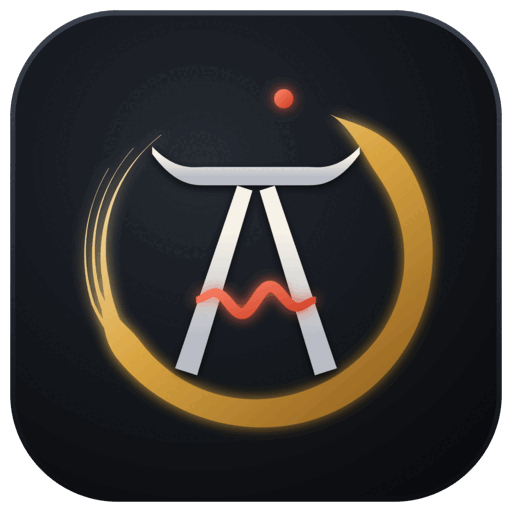
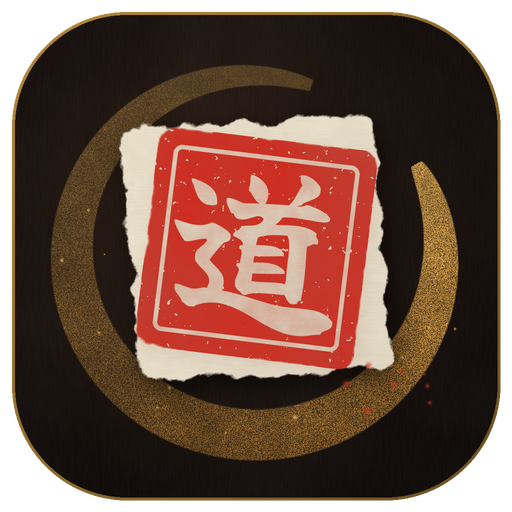
Axell Signature Dojo v3.0.1

diff --git a/docs/DESIGN.md b/docs/DESIGN.md
@@ -29,3 +29,4 @@
 | D25 | 3.0: the tracking chain keeps De-Reverb, in its new LIVE mode (a causal network as a zero-latency filter); an older De-Reverb is left out as before. The "Tracking (Live)" template starts with it too | axell-dereverb D17: LIVE removes 3.7 dB of room (STUDIO 5.7) on 48 held-out examples with ViSQOL 4.00 (input 3.96) and no more voice damage than STUDIO, at 0 ms - the artist hears the voice without the room while recording, at the same ~3.4 ms of chain latency. |
 | D26 | 3.0: the profile chains pick up the cluster's 3.0 work through the plugins themselves - Duo Compressor's VOICE HOLD (on for new instances: the pauses are no longer lifted by the compression, +23.4 -> +5.9 dB on the artist's take), Gate 3.0's two networks, Master's VOICE HOLD in its vocal presets, Penta EQ's ESS detector source - so the Dojo's tuning measures what the artist will hear | Nothing to configure in the Dojo; the tuning renders through the installed plugins (D17), so a profile made with the 3.0 plugins is tuned on their behaviour. |
 | D27 | 3.0: the Axell's Dojo brand title in the sidebar: "Axell's" in gold over "Dojo" in the brush face (Yuji Syuku, SIL OFL 1.1, via axell-core BrandTitle) with the Dojo's seal 道 ("the way") | The same title, emblem and seal language as every plugin's header. |
+| D28 | 3.0.1: the app icon is the Dojo's own seal - 道 carved white in a vermilion hanko seal (Yuji Syuku, worn stamp edges, ink pooling, tiny voids), stamped at -7 degrees on torn washi laid at +4 degrees, inside the brand's dry-brush gold ensō on black lacquer with a gold rim (generator: axell-brand/dojo_seal_icon.py); shipped in 8 sizes | The seal is the Dojo's mark in the sidebar and the brand's language (every plugin carries its own seal); it stays legible down to 32 px (a red stamp with 道), where the earlier emblem icon became a gold ring. Installing every size stops a desktop showing a cached older small icon. |

diff --git a/README.md b/README.md
@@ -43,7 +43,7 @@ every file the Dojo touches inside `<dir>`.
 
 ## Install
 
-Download `AxellSignatureDojo-3.0.0-linux-x86_64.tar.gz` from the
+Download `AxellSignatureDojo-3.0.1-linux-x86_64.tar.gz` from the
 [latest release](https://github.com/zmardanian/axell-signature-dojo/releases/latest) (optional: `sha256sum -c
 SHA256SUMS.txt`), extract it and run `./install.sh`; open "Axell Signature Dojo" from your app menu. Linux x86_64,
 glibc 2.39+. From there the Plugins page installs the suite (from GitHub or a folder, e.g. a USB stick).
@@ -57,6 +57,7 @@ glibc 2.39+. From there the Plugins page installs the suite (from GitHub or a fo
 | **2.0.1** | Small noisy rooms get De-Reverb Clean (95 %); Batch Render on the terminal | 95-100 % measured best on home recordings (DESIGN D21) |
 | **2.1.0** | The Voice Profile listens with Velvet 3.0's detector (111 voices); Velvet's AMOUNT tuned on your take to where natural speech has its esses; a tracking chain for recording | the artist's take: esses' loud end -1.9 -> -10.4 dB at the tuned 50 %; tracking chain 3.4 ms (Gate BEST would be 70 ms) |
 | **3.0.0** | The suite at 3.0, connected: the tracking chain includes De-Reverb LIVE (0 ms); profiles tuned on the 3.0 plugins (Duo's VOICE HOLD, Gate 3.0, Master's VOICE HOLD); Axell's Dojo brush title | tracking chain 5 plugins, 3.4 ms; core 64/64, platform 149/149, REAPER 14/14 |
+| **3.0.1** | New app icon: the Dojo's 道 hanko seal on washi inside a gold ensō, installed in every size | legible down to 32 px; no cached older icon left behind |
 
 The reasoning behind every rule, with its measurement: [docs/DESIGN.md](docs/DESIGN.md); all changes: [CHANGELOG.md](CHANGELOG.md).
 

diff --git a/CHANGELOG.md b/CHANGELOG.md
@@ -1,5 +1,10 @@
 # Changelog
 
+## 3.0.1
+- **New app icon: the Dojo's seal.** A vermilion hanko seal with 道 ("the way") carved in the brush face, stamped
+  askew on a torn piece of washi, inside a dry-brush gold ensō on black lacquer. The installer now puts it in every
+  icon size (16-512 px), so an older small icon can no longer show on the desktop or in the menu (D28).
+
 ## 3.0.0
 - **The suite at 3.0, connected:** Axell Duo Compressor 3.0 (VOICE HOLD), Gate 3.0 (a second voice network trained on
   111 voices), De-Reverb 3.0 (LIVE: zero latency), Penta EQ 3.0 (ESS detector source), Master 3.0 (VOICE HOLD for a
